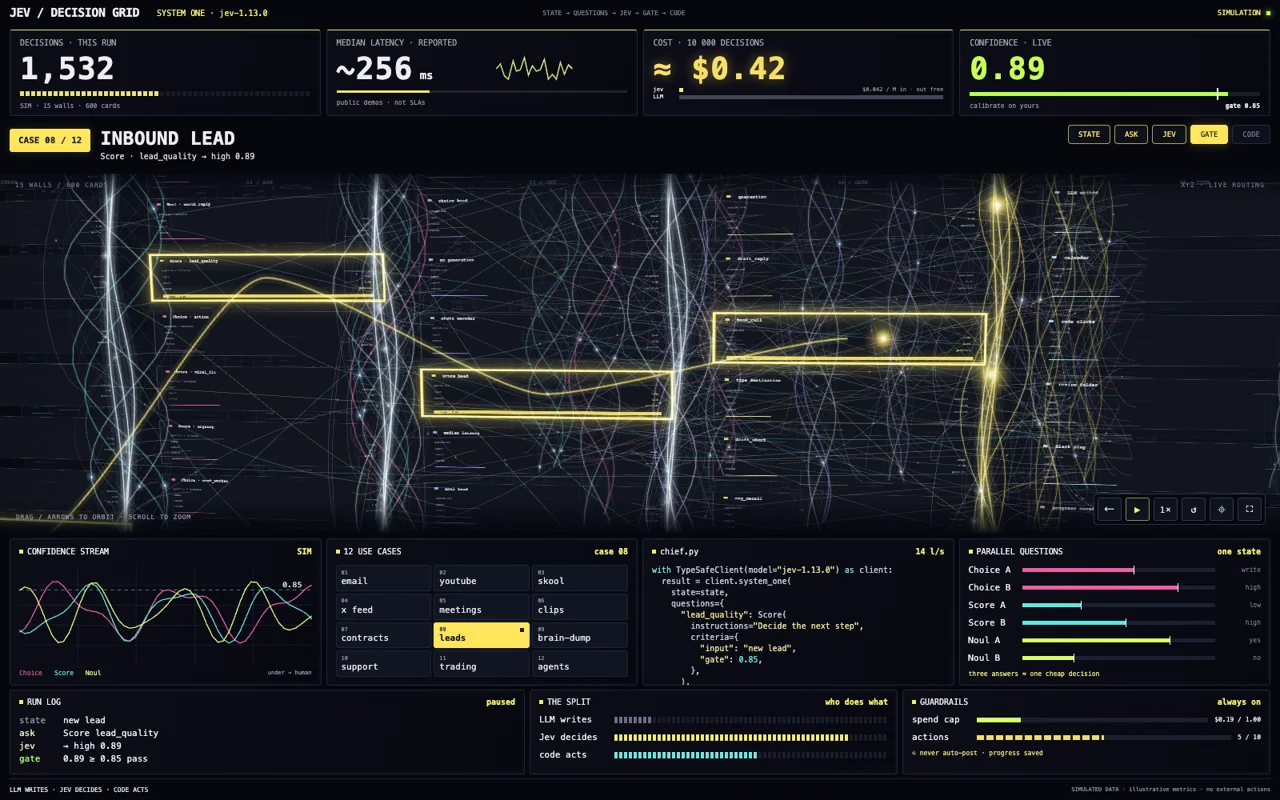
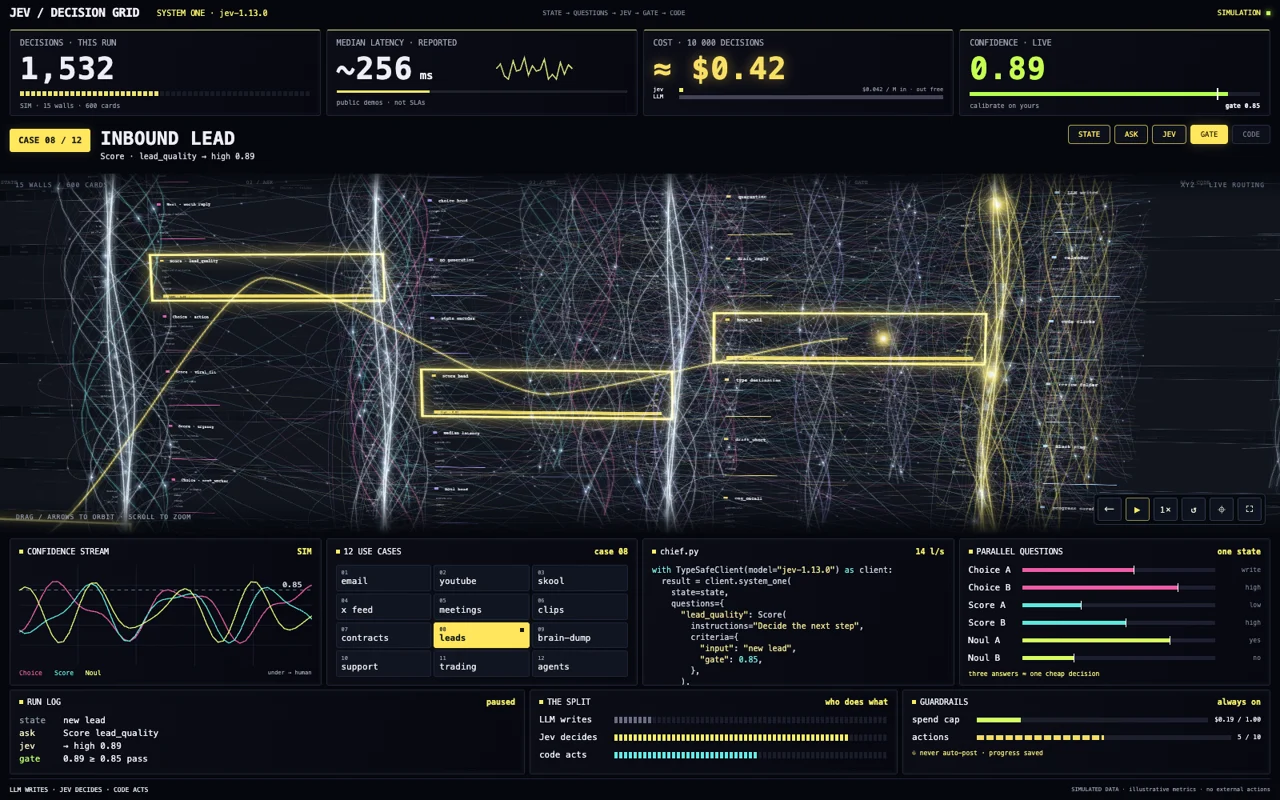
Make the neural network feel denser without obscuring its decision path
Increase cross-wall connections and local dendrites while balancing strand
opacity so the active route remains visible. Refresh the generated preview.

Confidence: high
Scope-risk: narrow
Tested: Lint, typecheck, production build, 11 browser tests, visual comparison
Tested: Local Chrome density sample 59.97 FPS with zero paused redraws
Not-tested: Frame rate across all devices

diff --git a/src/dashboards/decision-grid/engine.ts b/src/dashboards/decision-grid/engine.ts
@@ -49,7 +49,7 @@ export function mountDecisionGrid(canvas: HTMLCanvasElement, options: GridOption
   }
   // Vertical dendrites hug each card wall. Cross-column threads form a connected graph.
   for (let layer = 0; layer < 3; layer++) for (let column = 0; column < 5; column++) {
-    for (let strand = 0; strand < 13; strand++) {
+    for (let strand = 0; strand < 26; strand++) {
       const seed = layer * 157 + column * 31 + strand;
       const points: Point[] = [];
       for (let step = 0; step <= 28; step++) {
@@ -61,7 +61,7 @@ export function mountDecisionGrid(canvas: HTMLCanvasElement, options: GridOption
       filaments.push({ points, color: strand % 3 ? '#d2e8ff' : palette[column], seed, bright: strand % 4 === 0 });
     }
   }
-  for (let index = 0; index < 210; index++) {
+  for (let index = 0; index < 780; index++) {
     const seed = index + 1000, column = index % 4;
     const depth = Math.floor(hash(seed) * 3) * 490;
     const start = { x: (column - 2) * 222 + 65, y: (hash(seed + 1) - .5) * 830, z: depth };
@@ -179,11 +179,11 @@ export function mountDecisionGrid(canvas: HTMLCanvasElement, options: GridOption
       const points = filament.points.map(project);
       const scale = points[0].scale / fit;
       const activeWall = filament.seed < 1000 && Math.floor((filament.seed % 157) / 31) === phase;
-      ctx.globalAlpha = filament.bright ? .47 * scale : (filament.seed >= 1000 ? .38 : .12) * scale;
+      ctx.globalAlpha = filament.bright ? .40 * scale : (filament.seed >= 1000 ? .27 : .10) * scale;
       ctx.strokeStyle = activeWall ? cases[selectedCase].color : filament.color; ctx.lineWidth = filament.bright ? .85 : .52;
       trace(points); ctx.stroke();
       if (filament.bright) { ctx.globalAlpha = .065 * scale; ctx.lineWidth = 6 * fit; ctx.stroke(); }
-      if (!filament.bright && filament.seed % 3 !== 0) continue;
+      if (!filament.bright && filament.seed % 2 !== 0) continue;
       const travel = (time * (filament.bright ? .38 : .22) + hash(filament.seed)) % 1;
       const slot = travel * (points.length - 1), index = Math.floor(slot);
       const first = points[index], next = points[Math.min(index + 1, points.length - 1)];
@@ -208,8 +208,8 @@ export function mountDecisionGrid(canvas: HTMLCanvasElement, options: GridOption
         ctx.globalAlpha = .96; ctx.lineWidth = 1.2 * fit; ctx.stroke();
       }
       // Small dendrite junctions interrupt the continuous trunk with concentrated light.
-      for (let node = 0; node < 22; node++) {
-        const seed = column * 47 + node;
+      for (let node = 0; node < 48; node++) {
+        const seed = column * 67 + node;
         const worldY = (hash(seed + 71) - .5) * 850;
         const center = project({ x: (column - 2) * 222 + 102 + Math.sin(worldY * .012 + column) * 5, y: worldY, z: -20 });
         const branch = project({ x: (column - 2) * 222 + 102 + (hash(seed + 19) - .5) * 120, y: worldY + (hash(seed + 27) - .5) * 150, z: 35 });

diff --git a/docs/decision-grid.md b/docs/decision-grid.md
@@ -11,7 +11,7 @@
 
 ## 实现方式
 
-`model.ts` 定义 12 个演示案例与控制器接口；`engine.ts` 生成 600 张 XYZ 卡片和 15 组数据墙，以透视投影绘制到 Canvas。前后景缩放、旋转视差、墙体发光、连接流与镜头运动均实时计算。卡片标签使用可复用纹理，远处卡片简化绘制；设备像素比上限为 1.75。
+`model.ts` 定义 12 个演示案例与控制器接口；`engine.ts` 生成 600 张 XYZ 卡片和 15 组数据墙，以透视投影绘制到 Canvas。网络包含 390 条纵向纤维、780 条跨墙连接，以及 240 个前景分支节点。前后景缩放、旋转视差、墙体发光、连接流与镜头运动均实时计算。卡片标签使用可复用纹理，远处卡片简化绘制；设备像素比上限为 1.75。
 
 默认每个案例持续 6 秒，依次经过五个阶段。镜头以短暂停留、快速推进和退出构成节奏。暂停会冻结时间、自动镜头、曲线与粒子；手动拖动或方向键仍可旋转。案例、速度、重播、复位和全屏控件由 Vue 管理。路由卸载释放 RAF、事件监听、ResizeObserver 和绘图缓存。
 
